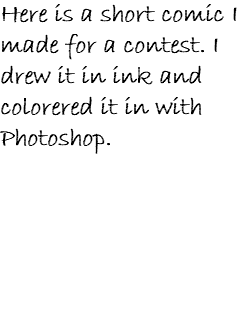
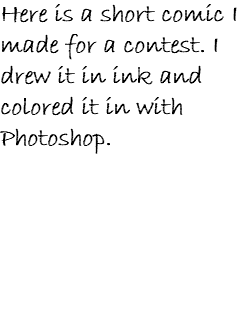
Fixed a typo on the comic page

Changed region(s): [[0.2267, 0.2727, 0.8219, 0.3636]]

diff --git a/sample-2.html b/sample-2.html
@@ -46,7 +46,7 @@ if(typeof Muse == "undefined") window.Muse = {}; window.Muse.assets = {"required
       <div class="clip_frame grpelem" id="u458"><!-- image -->
        <img class="block" id="u458_img" src="images/comic3.jpg?crc=355932750" alt="" data-heightwidthratio="1.4303797468354431" data-image-width="316" data-image-height="452"/>
       </div>
-      <img class="grpelem" id="u488-4" alt="Here is a short comic I made for a contest. I drew it in ink and colorered it in with Photoshop. " src="images/u488-4.png?crc=405776276" data-image-width="247"/><!-- rasterized frame -->
+      <img class="grpelem" id="u488-4" alt="Here is a short comic I made for a contest. I drew it in ink and colored it in with Photoshop. " src="images/u488-4.png?crc=47811729" data-image-width="247"/><!-- rasterized frame -->
      </div>
     </div>
    </div>
